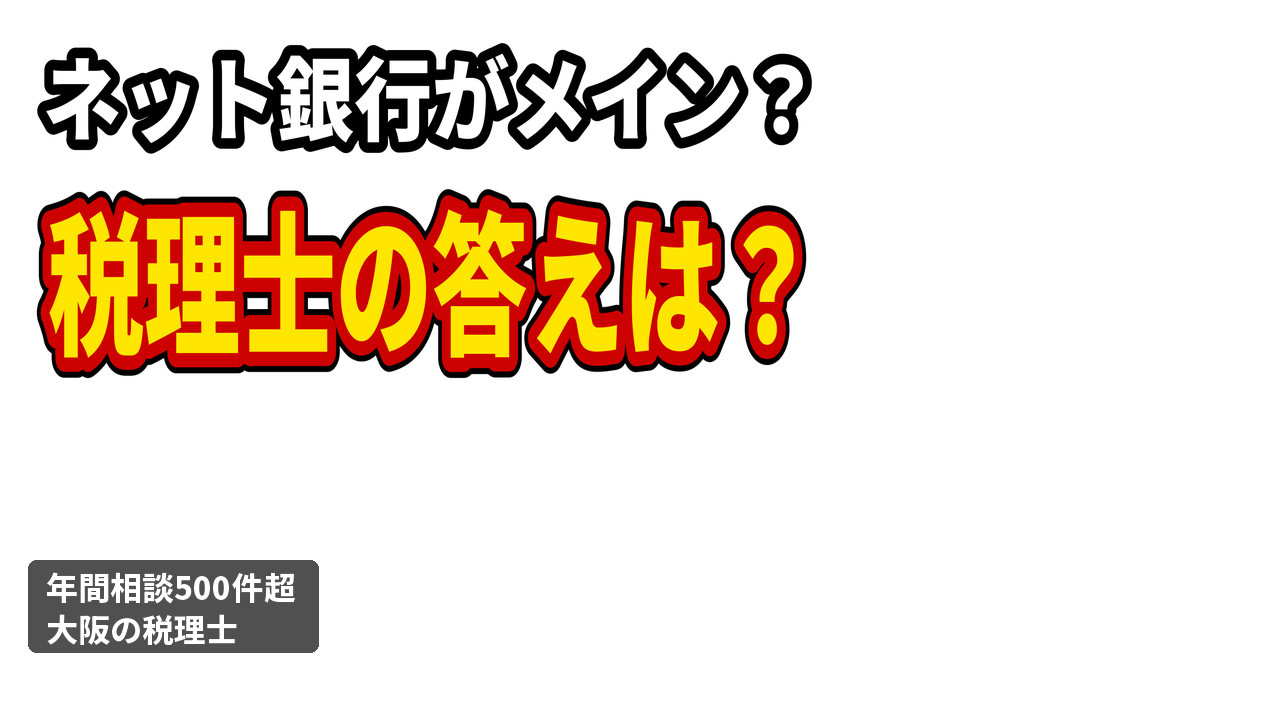
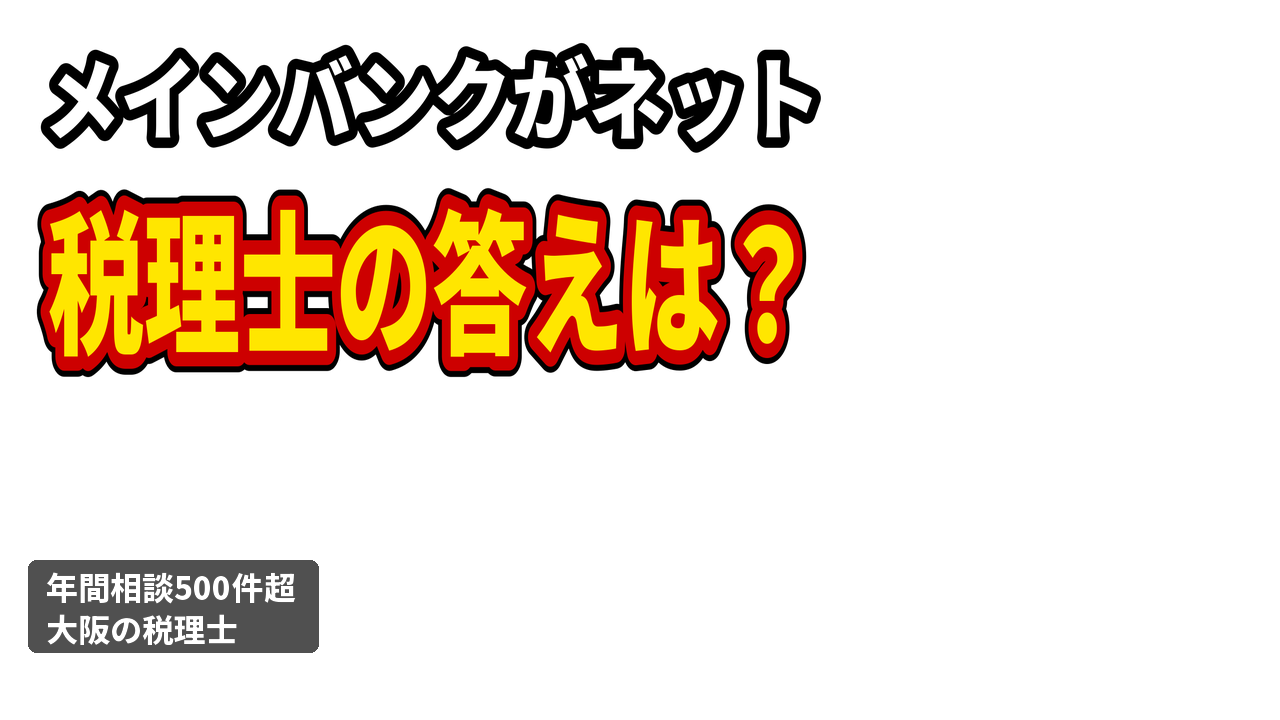
Actvision: 銀行5選サムネBの上段をTak決定の文言（メインバンクがネット）に差し替え、コンタクトシート更新
Claude-Session: https://claude.ai/code/session_01DHBSnLSCJvtnYECMcaMvR9

diff --git a/clients/Actvision/thumbs/ginko5/gen_thumb_ginko5.py b/clients/Actvision/thumbs/ginko5/gen_thumb_ginko5.py
@@ -254,7 +254,7 @@ def text_layer3(l1segs,l2segs,gap=16):
 
 FINAL={
  "A":dict(scene=scene_A,l1=[("その銀行だから",WHT,BLK)],l2=[("融資が下りない",YEL,RED_S)]),
- "B":dict(scene=scene_B,l1=[("ネット銀行がメイン？",WHT,BLK)],l2=[("税理士の答えは？",YEL,RED_S)]),
+ "B":dict(scene=scene_B,l1=[("メインバンクがネット",WHT,BLK)],l2=[("税理士の答えは？",YEL,RED_S)]),
  "C":dict(scene=scene_C,l1=[("創業時、避けたい",WHT,BLK)],l2=[("あの〇〇銀行",YEL,RED_S)]),
 }
 outs={}
